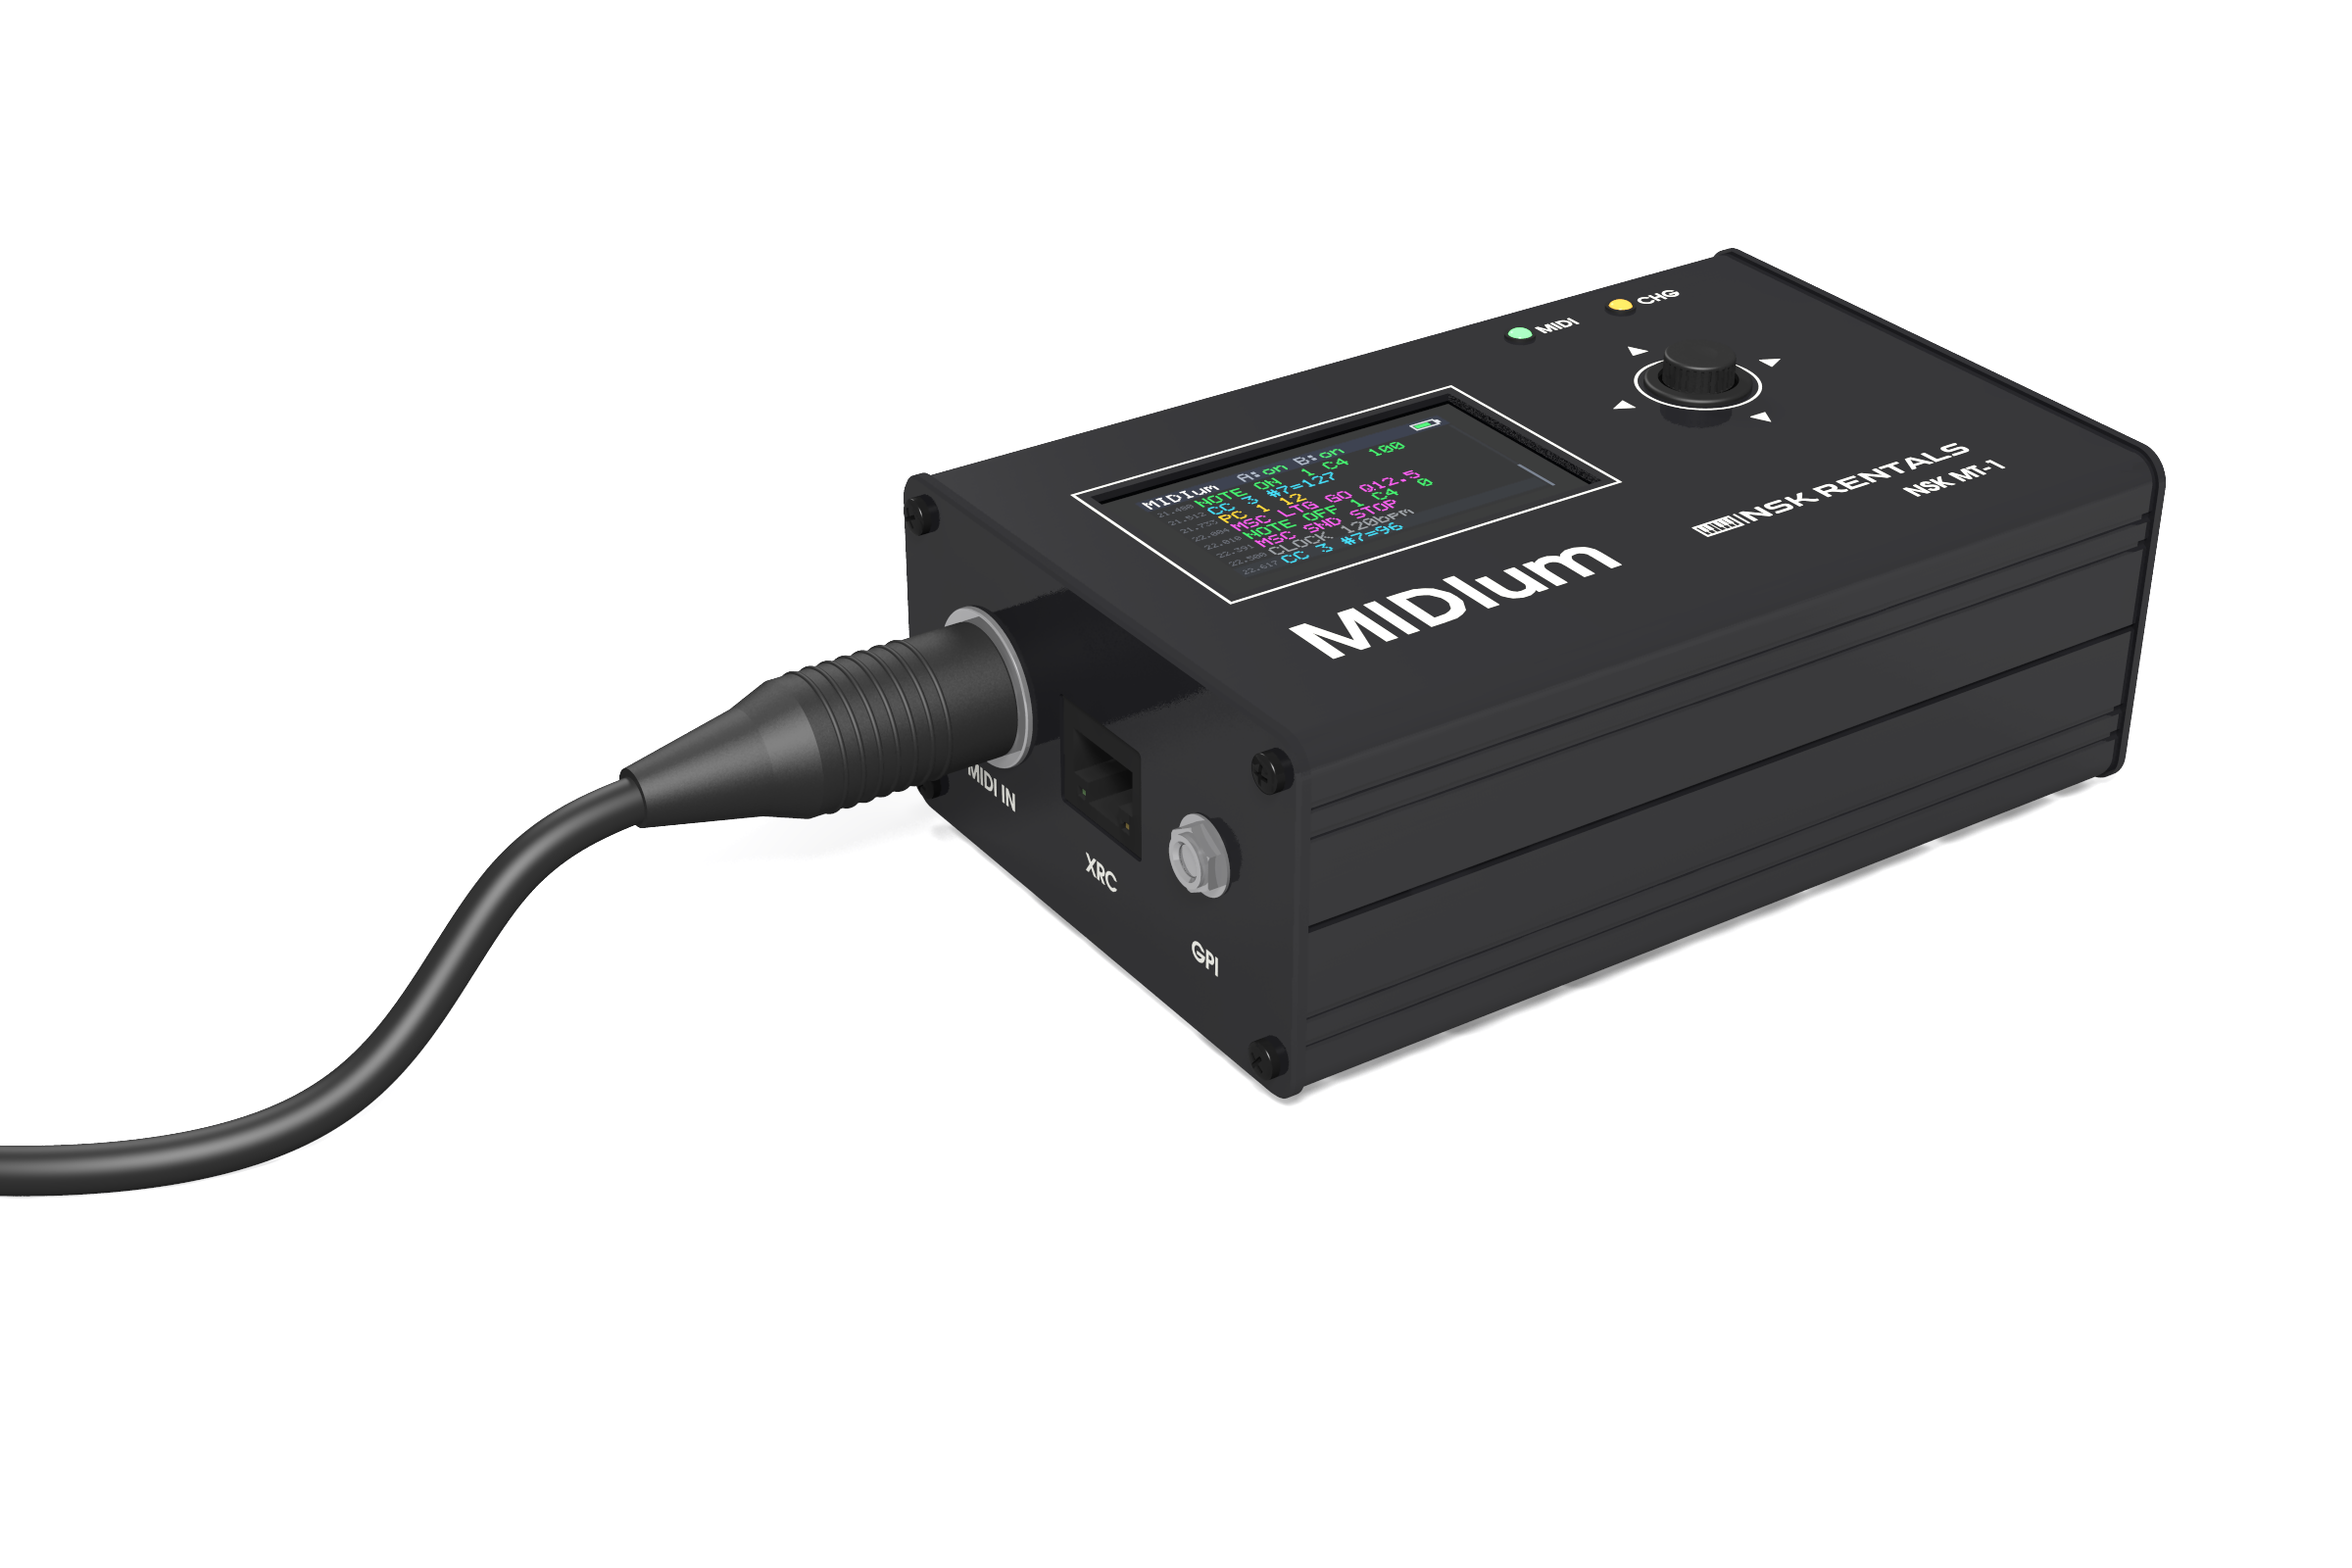
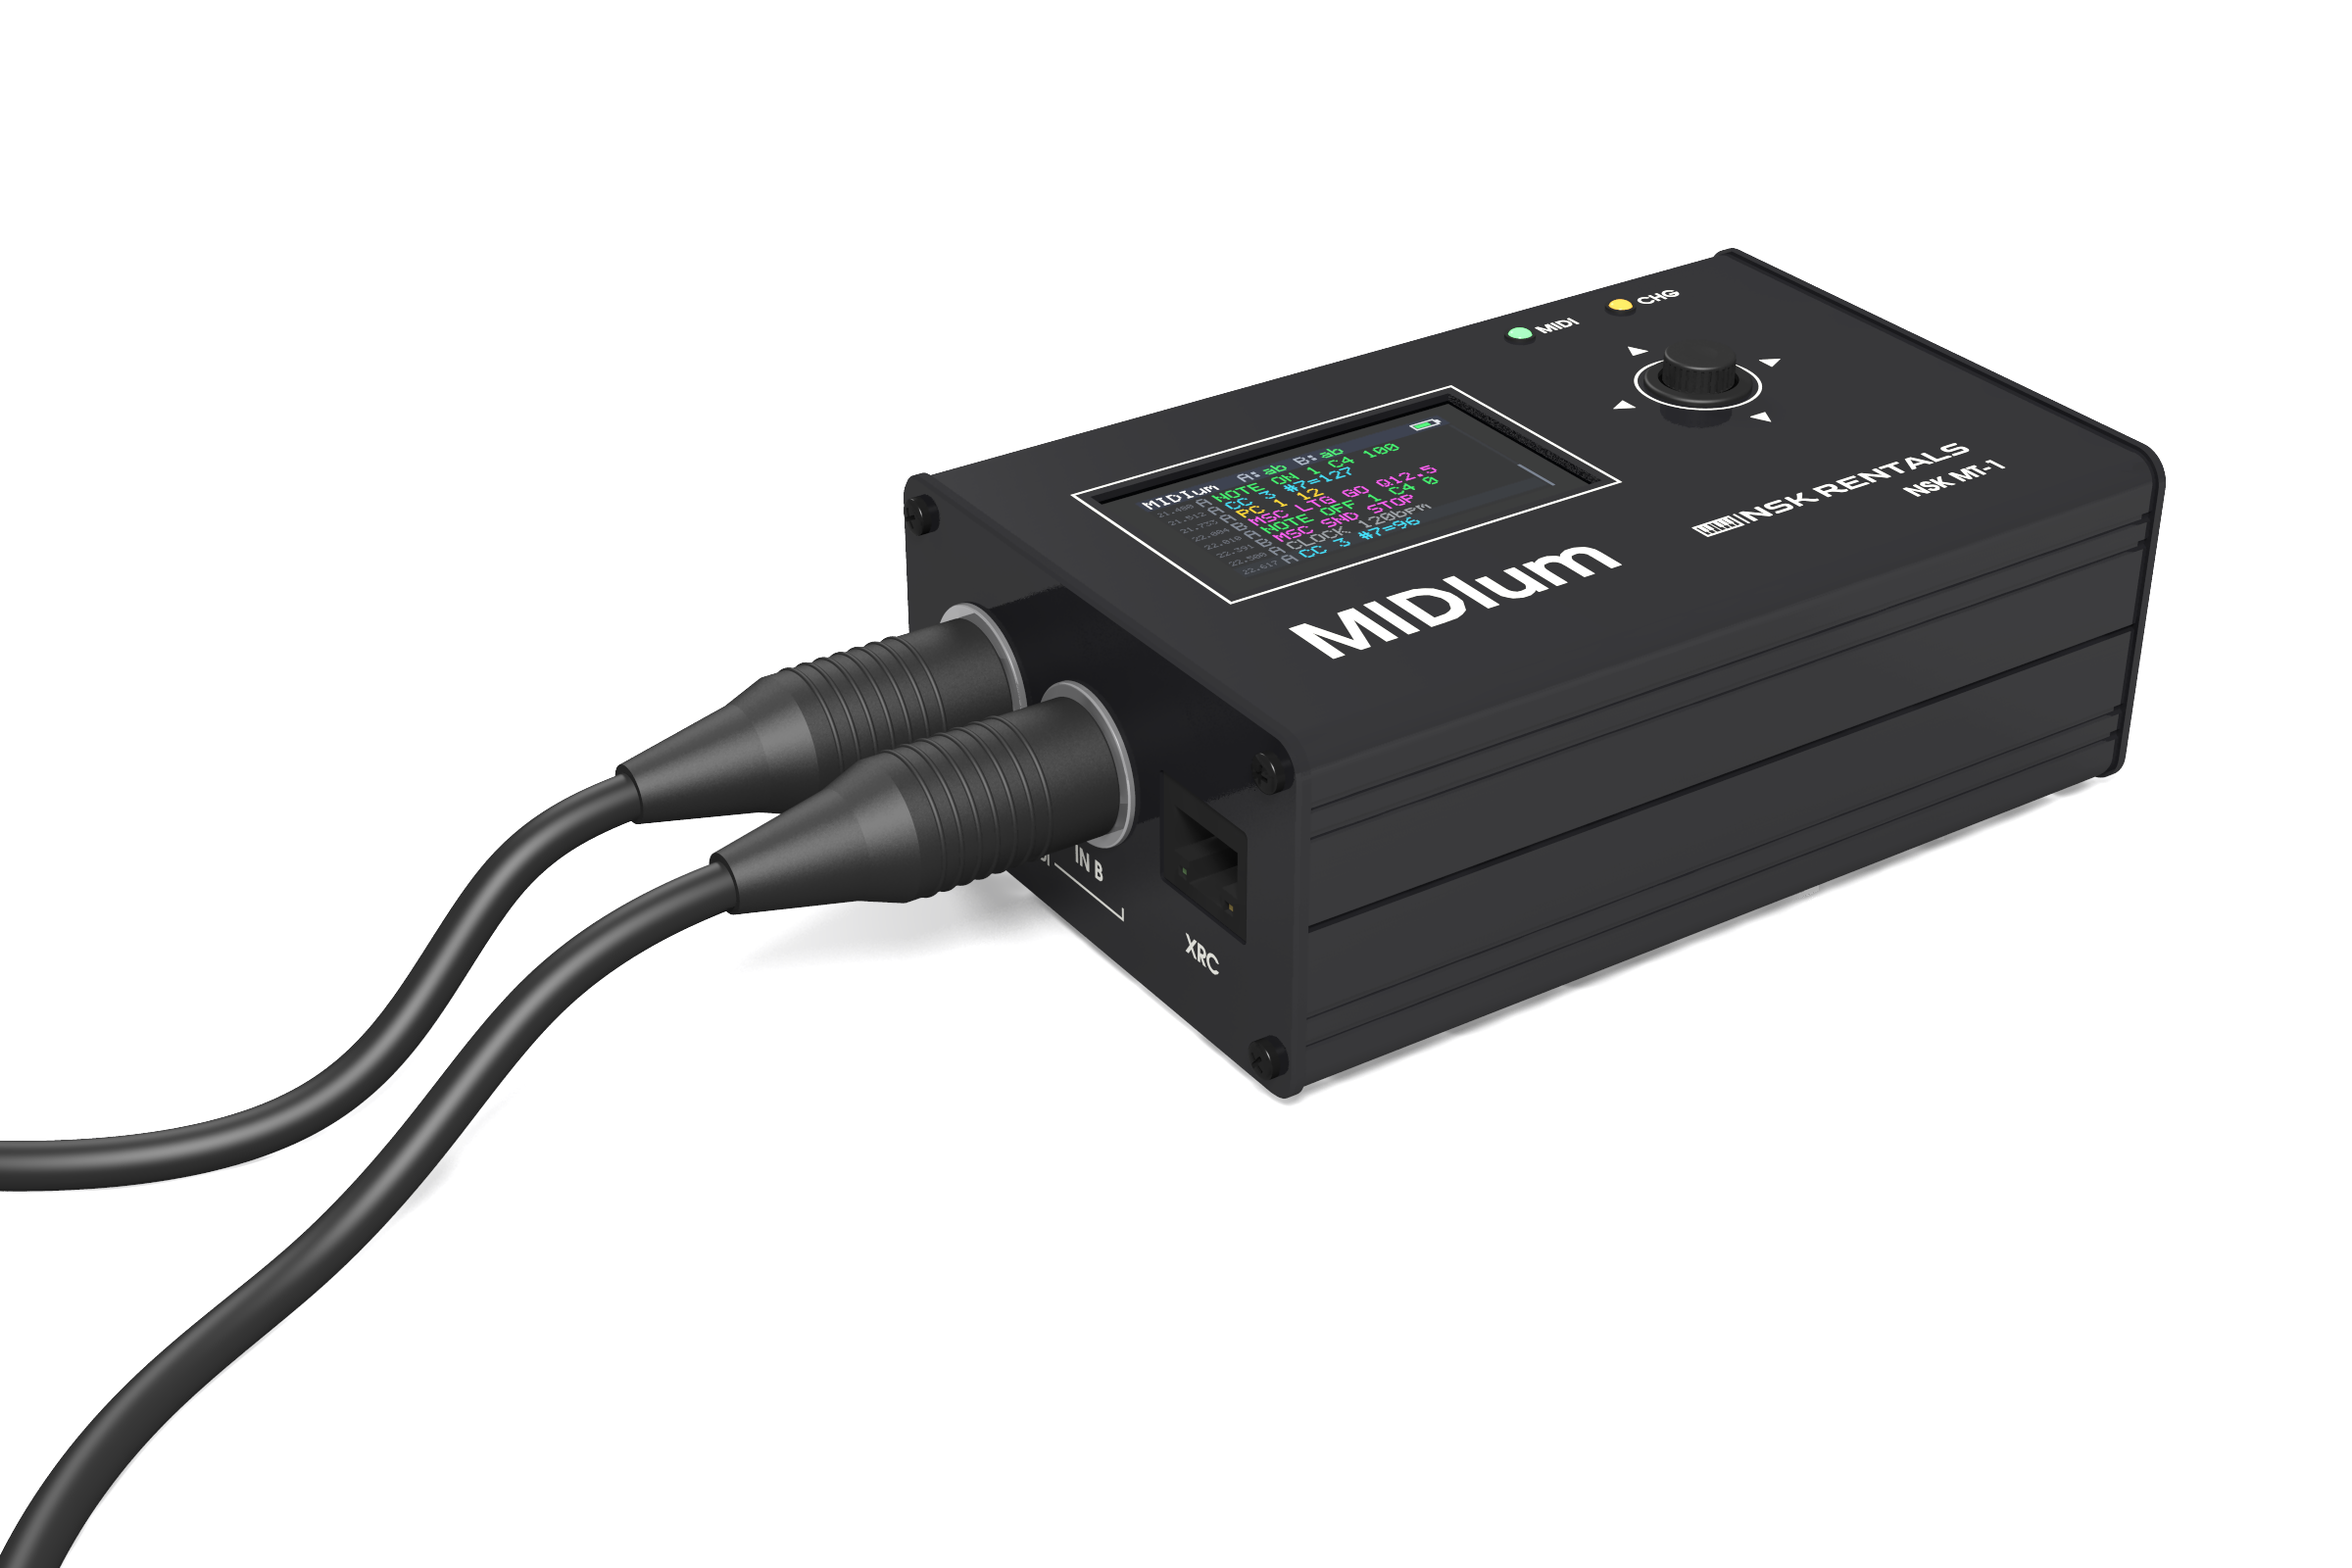
Renders: IN end with MIDI IN A/B + XRC, routing header and A/B tags on screen
Claude-Session: https://claude.ai/code/session_01KvgHCpB6CHTkis3DSxsPCD

Changed region(s): [[0.0, 0.375, 0.5625, 1.0], [0.5, 0.2812, 0.625, 0.375], [0.2812, 0.4375, 0.3125, 0.4688]]

diff --git a/hardware/renders/render.py b/hardware/renders/render.py
@@ -48,15 +48,17 @@ TOP = {   # top face, (u, v) = (x along length from IN end, z from front edge)
 }
 DIN_PITCH = 22.0
 END_A = {  # IN end, seen from outside: px right of centre, py up from body bottom
-    "din": [("MIDI IN", -21.0, 23.0)],
-    "rj45": ("XRC", 2.5, 22.5),
-    "jack": ("GPI", 23.0, 23.0),
+    "din": [("IN A", -22.0, 23.0), ("IN B", 0.0, 23.0)],
+    "rj45": ("XRC", 22.5, 22.5),
+    "group": ("MIDI", -22.0, 0.0),     # etched bracket + group label under the two DIN legends
 }
 END_B = {  # OUT end, seen from outside
     "din": [("OUT A", -22.0, 23.0), ("OUT B", 0.0, 23.0)],
     "usbc": ("USB / CHG", 22.5, 23.0),
+    "group": ("MIDI", -22.0, 0.0),
 }
 LABEL_CAP, LABEL_Y = 2.3, 10.2     # end-panel legend cap height, legend centre height (py)
+GROUP_CAP, GROUP_Y, GROUP_LINE = 1.8, 6.4, 0.28   # group label cap height, bracket line centre (py), line weight
 DIN_FLANGE_D, DIN_HOLE_D = 19.0, 16.0
 RJ_CUT = (16.4, 13.8)
 USB_CUT = (9.8, 4.0)
@@ -122,6 +124,14 @@ def end_artwork(spec):
         if key in spec:
             lab, x, y = spec[key]
             g.append(text_geom(lab, LABEL_CAP, x, LABEL_Y, ha="center", va="center"))
+    if "group" in spec:   # |____ MIDI ____|  bracket spanning the DIN pair, label in a gap at the middle
+        lab, xa, xb = spec["group"]
+        x0, x1, xm = xa - 7.0, xb + 7.0, (xa + xb) / 2
+        t = text_geom(lab, GROUP_CAP, xm, GROUP_Y, ha="center", va="center", font=FONT)
+        tx0, _, tx1, _ = t.bounds
+        hl, tick = GROUP_LINE / 2, 1.5
+        g += [t, sbox(x0, GROUP_Y - hl, tx0 - 1.2, GROUP_Y + hl), sbox(tx1 + 1.2, GROUP_Y - hl, x1, GROUP_Y + hl),
+              sbox(x0, GROUP_Y - hl, x0 + GROUP_LINE, GROUP_Y + tick), sbox(x1 - GROUP_LINE, GROUP_Y - hl, x1, GROUP_Y + tick)]
     return unary_union(g)
 
 
@@ -160,7 +170,7 @@ F5x7 = {
  "2": ".###.#...#....#...#...#...#...#####", "3": "#####" "...#." "..#.." "...#." "....#" "#...#" ".###.",
  "4": "...#...##..#.#.#..#.#####...#....#.", "5": "######....####.....#....##...#.###.",
  "6": "..##..#...#....####.#...##...#.###.", "7": "#####....#...#...#...#....#....#...",
- "8": ".###.#...##...#.###.#...##...#.###.", "9": ".###.#...##...#.####....#...#..##..",
+ "a": "".join([".....", ".....", ".###.", "....#", ".####", "#...#", ".####"]), "8": ".###.#...##...#.###.#...##...#.###.", "9": ".###.#...##...#.####....#...#..##..",
  "b": "#....#....#.##.##..##...##...#####.", "m": "..........##.#.#.#.##.#.##...##...#",
  "n": "..........#.##.##..##...##...##...#", "o": "...........###.#...##...##...#.###.",
  "p": "..........####.#...#####.#....#....", "u": "..........#...##...##...##..##.##.#",
@@ -191,23 +201,25 @@ def screen_texture(path, up=4):
     d = ImageDraw.Draw(img)
     d.rectangle([0, 0, 319, 19], fill=(22, 34, 56))
     draw_text(img, "MIDIum", 5, 3, (255, 255, 255))
-    draw_text(img, "A:", 5 + 8 * 12, 3, (170, 180, 195)); draw_text(img, "on", 5 + 10 * 12, 3, (60, 235, 110))
-    draw_text(img, "B:", 5 + 13 * 12, 3, (170, 180, 195)); draw_text(img, "on", 5 + 15 * 12, 3, (60, 235, 110))
+    # routing summary: input A -> outs a+b, input B -> outs a+b
+    draw_text(img, "A:", 5 + 8 * 12, 3, (170, 180, 195)); draw_text(img, "ab", 5 + 10 * 12, 3, (60, 235, 110))
+    draw_text(img, "B:", 5 + 13 * 12, 3, (170, 180, 195)); draw_text(img, "ab", 5 + 15 * 12, 3, (60, 235, 110))
     # battery icon
     d.rectangle([286, 4, 311, 15], outline=(220, 225, 230), width=2)
     d.rectangle([312, 7, 314, 12], fill=(220, 225, 230))
     d.rectangle([289, 7, 303, 12], fill=(60, 235, 110))
     G, C, Y, M, K = (40, 235, 100), (40, 215, 240), (255, 214, 10), (245, 80, 235), (150, 155, 160)
-    rows = [("21.480", "NOTE ON  1 C4  100", G), ("21.512", "CC 3 #7=127", C), ("21.733", "PC 1 12", Y),
-            ("22.004", "MSC LTG GO Q12.5", M), ("22.010", "NOTE OFF 1 C4  0", G), ("22.391", "MSC SND STOP", M),
-            ("22.500", "CLOCK 120bpm", K), ("22.617", "CC 3 #7=96", C)]
+    rows = [("21.480", "A", "NOTE ON 1 C4 100", G), ("21.512", "A", "CC 3 #7=127", C), ("21.733", "A", "PC 1 12", Y),
+            ("22.004", "B", "MSC LTG GO Q12.5", M), ("22.010", "A", "NOTE OFF 1 C4 0", G), ("22.391", "B", "MSC SND STOP", M),
+            ("22.500", "A", "CLOCK 120bpm", K), ("22.617", "A", "CC 3 #7=96", C)]
     y0, pitch = 23, 18
-    for i, (ts, msg, col) in enumerate(rows):
+    for i, (ts, src, msg, col) in enumerate(rows):
         y = y0 + i * pitch
         if i == len(rows) - 1:
             d.rectangle([0, y - 2, 313, y + 15], fill=(18, 26, 36))
         draw_text(img, ts, 3, y + 4, (95, 100, 110), scale=1)
-        draw_text(img, msg, 44, y + 1, col, scale=2)
+        draw_text(img, src, 44, y + 1, (120, 128, 140), scale=2)
+        draw_text(img, msg, 62, y + 1, col, scale=2)
     d.rectangle([316, 22, 318, 169], fill=(25, 30, 38))
     d.rectangle([316, 120, 318, 168], fill=(110, 120, 135))
     img = img.resize((320 * up, 170 * up), Image.NEAREST)
@@ -498,18 +510,23 @@ box {{ <0,0,0>, <1,1,0.001>
     return "#declare MT1 = union {\n" + "\n".join(s) + "\n}\n"
 
 
-def midi_cable():
-    """Moulded 5-pin DIN plug in MIDI IN plus cable trailing away on the floor (device frame)."""
-    _, px, py = END_A["din"][0]
+def midi_cable(idx, name):
+    """Moulded 5-pin DIN plug in END_A["din"][idx] plus cable trailing away on the floor (device frame)."""
+    _, px, py = END_A["din"][idx]
     # IN panel: local px -> device z = W/2 - px ; outward = -x
     zc, yc = W / 2 - px, FOOT + py
     x0 = -PANEL_T - 0.85   # flange front
     grip = " ".join(f"torus {{ 7.9, 0.35 rotate z*90 translate <{x0 - 9 - i * 2.2:.3f},0,0> }}" for i in range(7))
-    pts = [(x0 - 22, yc, zc), (x0 - 34, yc, zc), (x0 - 48, yc, zc), (x0 - 60, yc - 3, zc - 1), (x0 - 72, 9, zc - 4),
-           (x0 - 86, 2.6, zc - 8), (x0 - 108, 2.6, zc - 4), (x0 - 135, 2.6, zc + 18), (x0 - 160, 2.6, zc + 60),
-           (x0 - 178, 2.6, zc + 120), (x0 - 190, 2.6, zc + 200), (x0 - 196, 2.6, zc + 260)]
+    if idx == 0:   # IN A (rear socket): drops and sweeps away to the back
+        pts = [(x0 - 22, yc, zc), (x0 - 34, yc, zc), (x0 - 48, yc, zc), (x0 - 60, yc - 3, zc - 1), (x0 - 72, 9, zc - 4),
+               (x0 - 86, 2.6, zc - 8), (x0 - 108, 2.6, zc - 4), (x0 - 135, 2.6, zc + 18), (x0 - 160, 2.6, zc + 60),
+               (x0 - 178, 2.6, zc + 120), (x0 - 190, 2.6, zc + 200), (x0 - 196, 2.6, zc + 260)]
+    else:          # IN B (centre socket): drops a little further out and curls away towards the front
+        pts = [(x0 - 22, yc, zc), (x0 - 34, yc, zc), (x0 - 50, yc, zc), (x0 - 66, yc - 4, zc - 1), (x0 - 80, 10, zc - 4),
+               (x0 - 96, 2.6, zc - 9), (x0 - 118, 2.6, zc - 18), (x0 - 140, 2.6, zc - 40), (x0 - 156, 2.6, zc - 80),
+               (x0 - 164, 2.6, zc - 140), (x0 - 166, 2.6, zc - 200), (x0 - 166, 2.6, zc - 260)]
     sw = ", ".join(f"<{x:.2f},{y:.2f},{z:.2f}>, 2.6" for x, y, z in pts)
-    return f"""#declare Plug = union {{
+    return f"""#declare Plug{name} = union {{
   difference {{ cylinder {{ <{x0 + 3:.3f},0,0>, <{x0 - 0.2:.3f},0,0>, 6.6 }} cylinder {{ <{x0 + 4:.3f},0,0>, <{x0 - 1:.3f},0,0>, 6.0 }} texture {{ T_Nickel }} }}
   merge {{
     cylinder {{ <{x0 - 0.4:.3f},0,0>, <{x0 - 25:.3f},0,0>, 8.0 }}
@@ -520,7 +537,7 @@ def midi_cable():
     texture {{ pigment {{ rgb 0.028 }} normal {{ granite 0.06 scale 0.4 }} finish {{ ambient 0 diffuse 0.65 specular 0.18 roughness 0.06 }} }}
   }}
   translate <0,{yc:.3f},{zc:.3f}> }}
-#declare Cable = sphere_sweep {{ b_spline {len(pts)}, {sw} tolerance 0.05
+#declare Cable{name} = sphere_sweep {{ b_spline {len(pts)}, {sw} tolerance 0.05
   texture {{ pigment {{ rgb 0.03 }} finish {{ ambient 0 diffuse 0.6 specular 0.25 roughness 0.04 }} }} }}
 """
 
@@ -546,7 +563,7 @@ VIEWS = {
     # black flag over the camera axis (seen only in reflections, casts no shadow) - as a studio would for a flat-lay
     "top": dict(cam=lambda a: cam_top(178, a),
                 extra="disc { <0,260,0>, y, 170 pigment { rgb 0 } finish { ambient 0 diffuse 0 } no_image no_shadow no_radiosity }"),
-    "context": dict(cam=lambda a: cam_persp((-250, 230, -300), (-38, 6, 18), 35), cable=True),
+    "context": dict(cam=lambda a: cam_persp((-250, 230, -300), (-38, 6, 18), 35), cables=(0, 1)),
 }
 
 
@@ -555,9 +572,10 @@ def scene(path, view, aspect):
     out = [HEADER, v["cam"](aspect), device()]
     out.append(f"object {{ MT1 translate <{-CX},0,{-CZ}> }}")
     out.append(v.get("extra", ""))
-    if v.get("cable"):
-        out.append(midi_cable())
-        out.append(f"union {{ object {{ Plug }} object {{ Cable }} translate <{-CX},0,{-CZ}> }}")
+    for idx in v.get("cables", ()):
+        n = "AB"[idx]
+        out.append(midi_cable(idx, n))
+        out.append(f"union {{ object {{ Plug{n} }} object {{ Cable{n} }} translate <{-CX},0,{-CZ}> }}")
     open(path, "w").write("\n".join(out))
 
 
